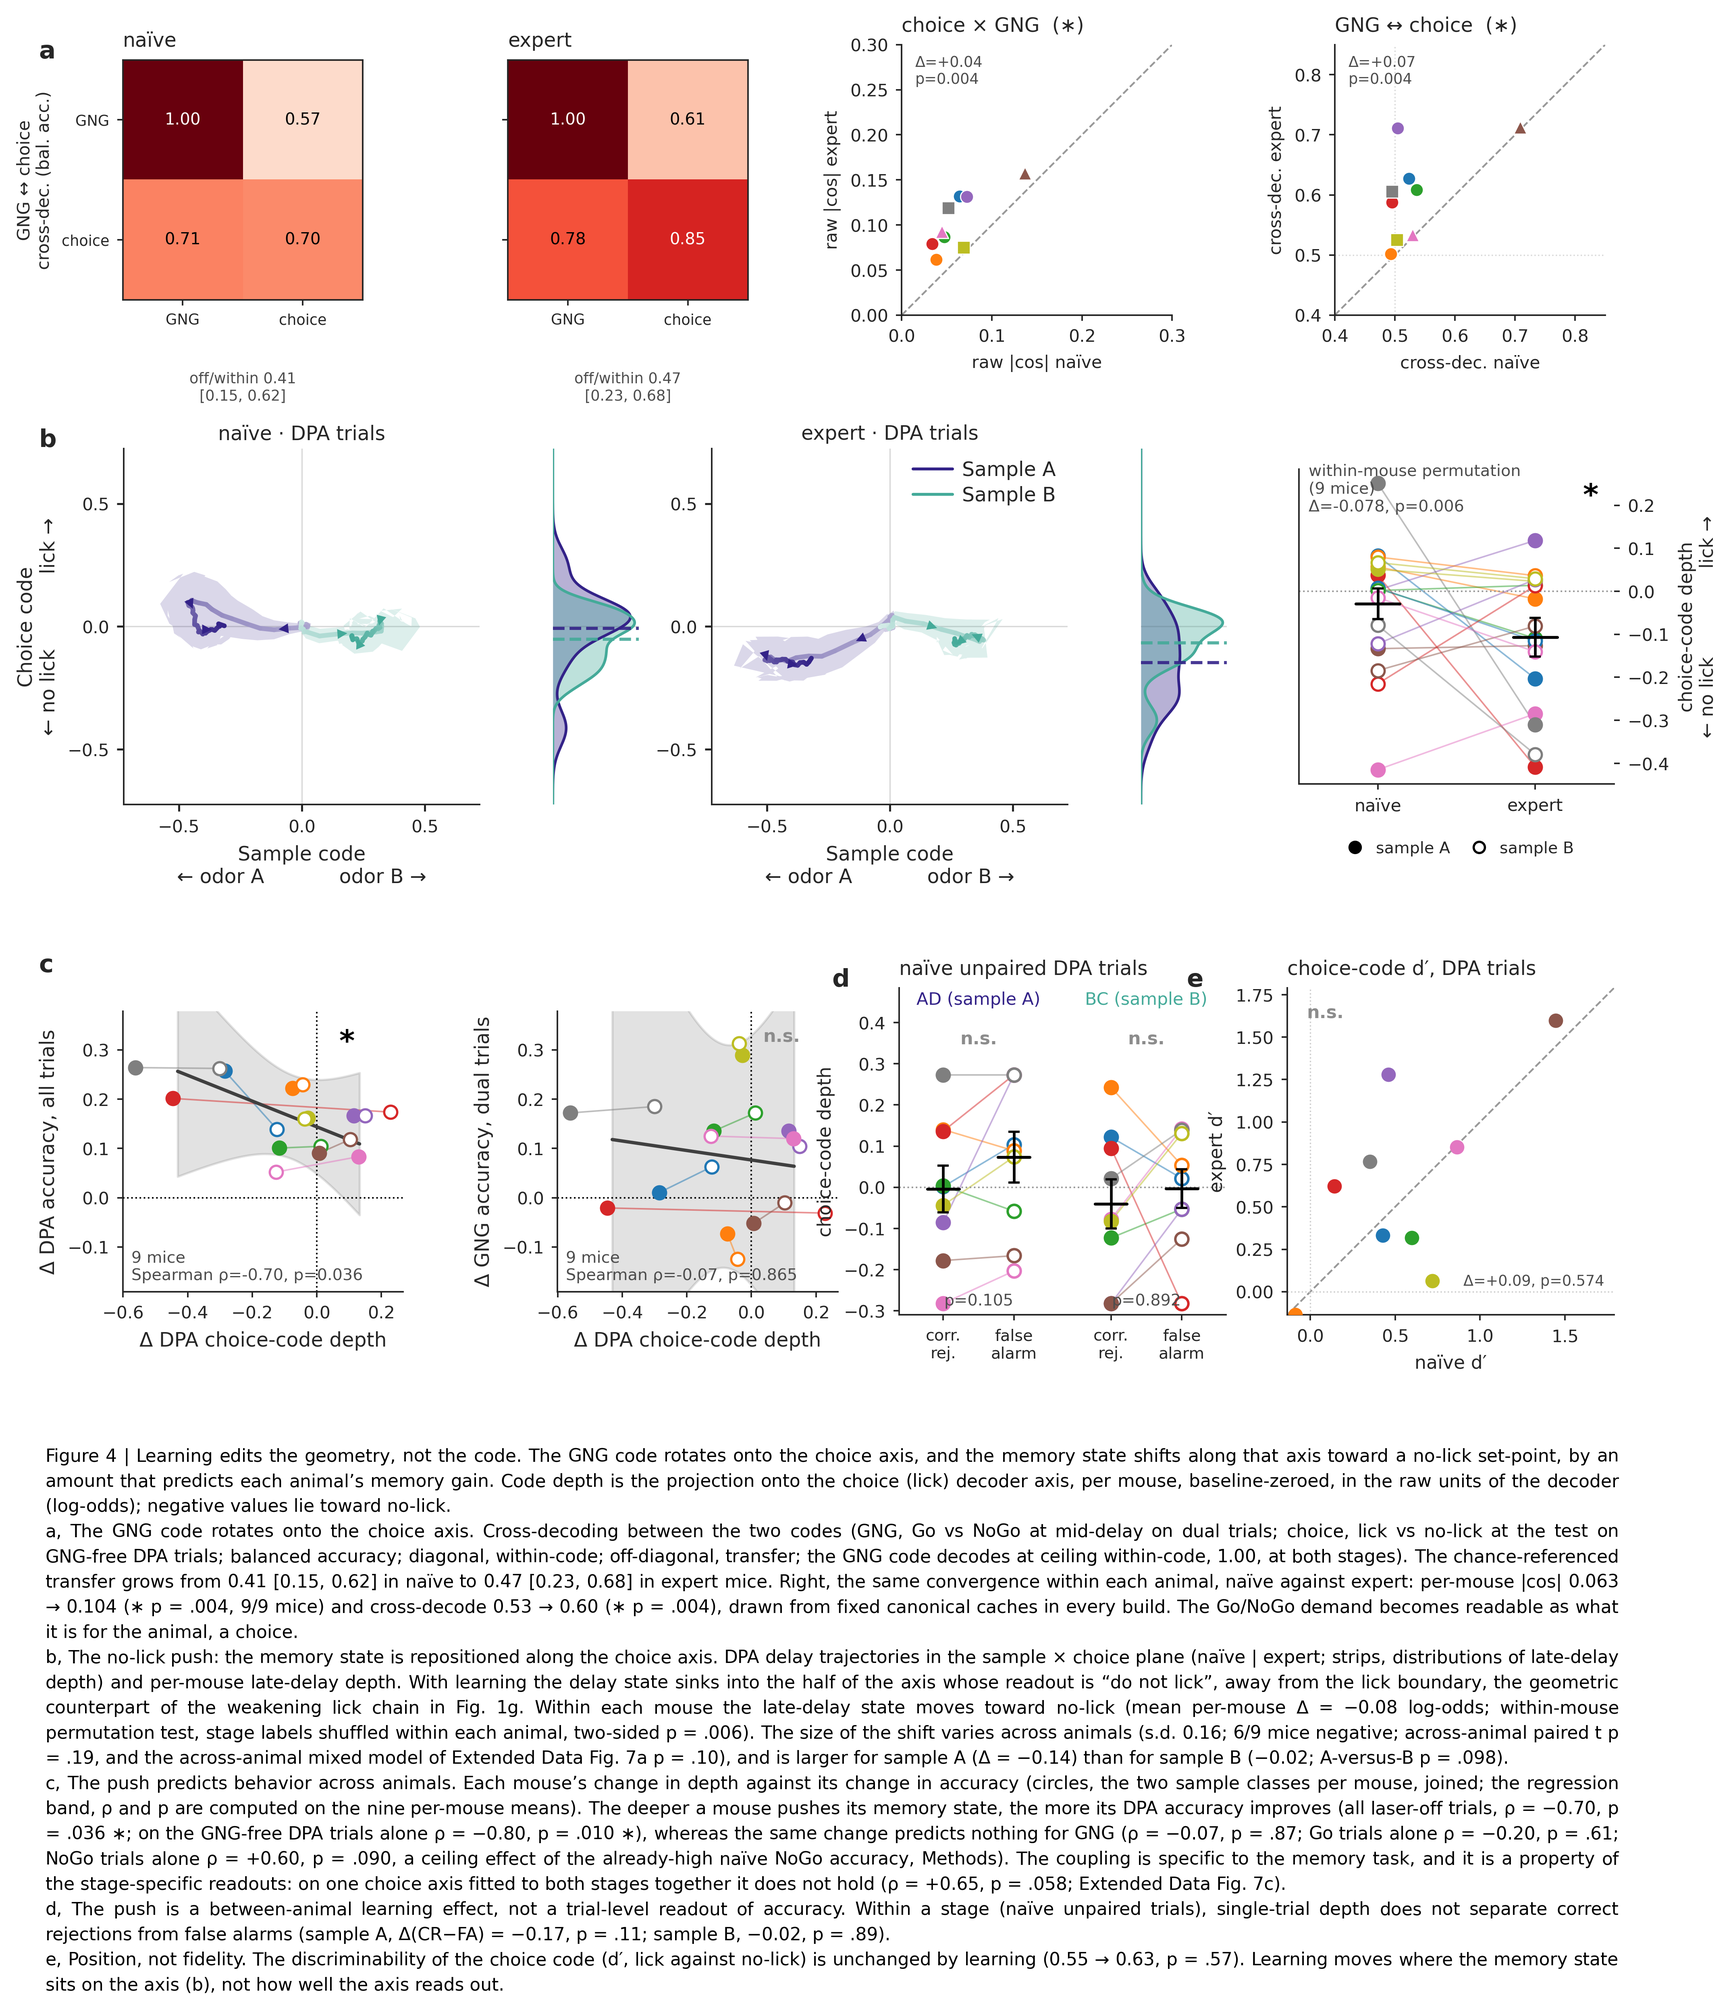
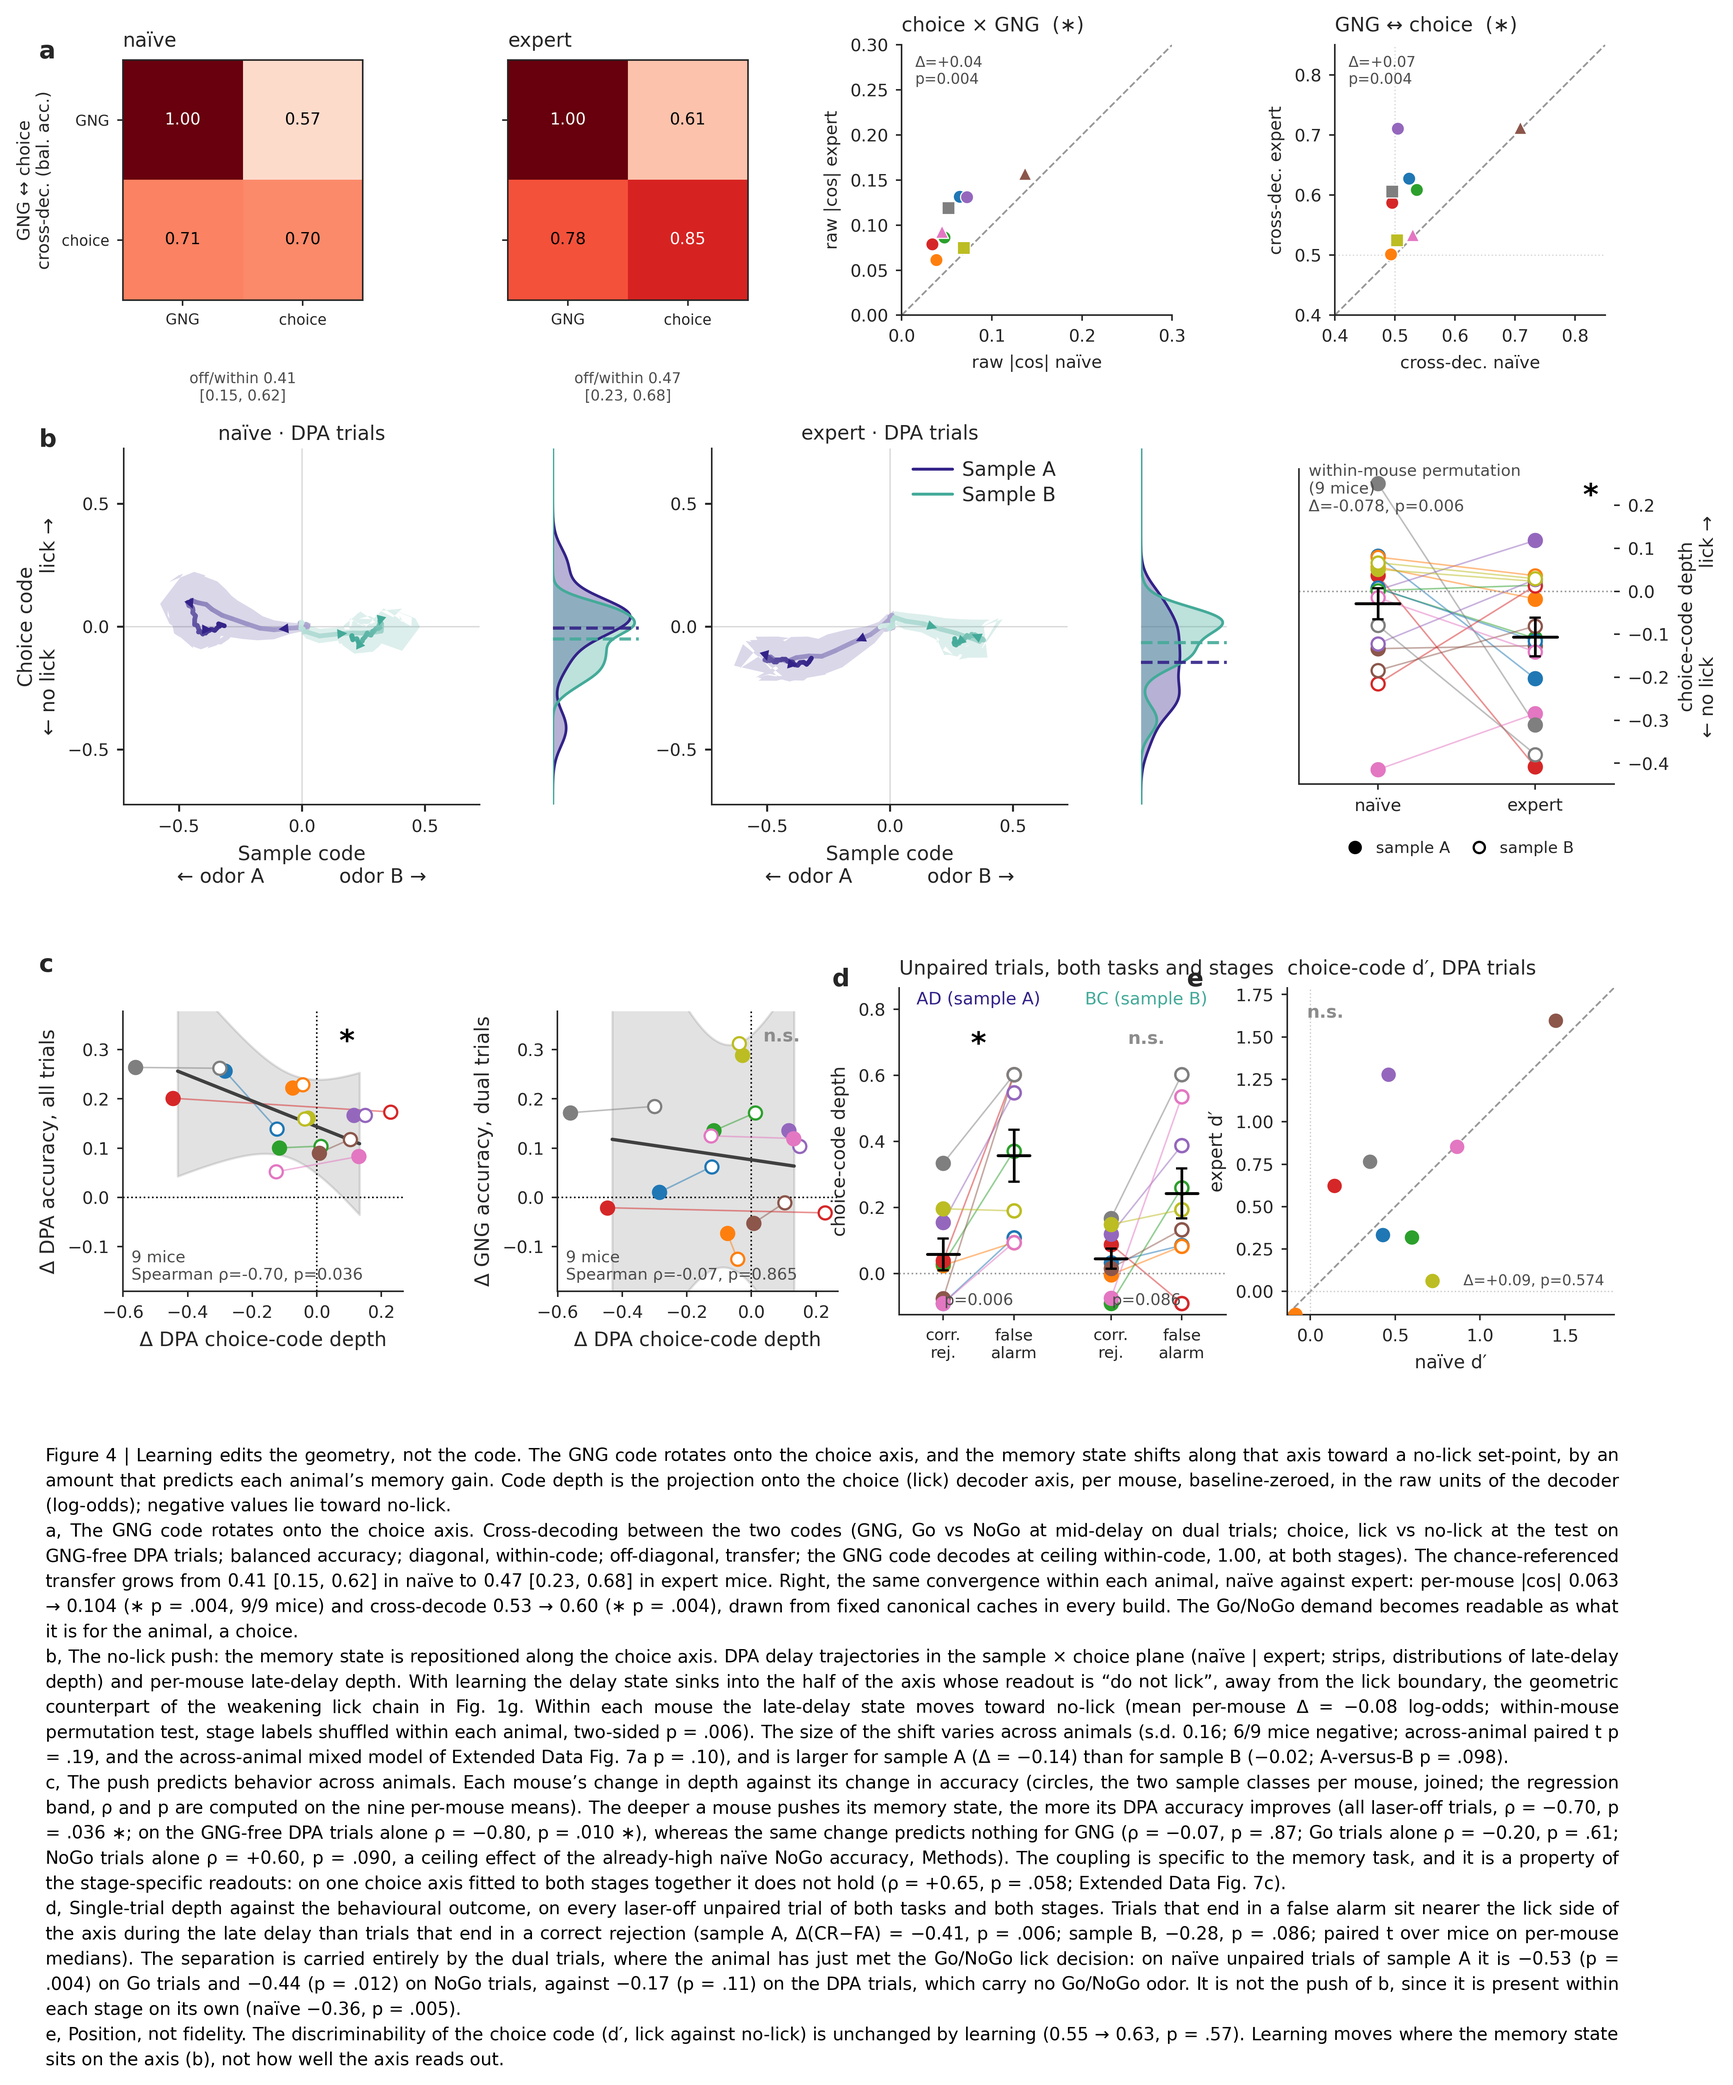
Fig 4d: widen the correct-rejection pool to all unpaired trials (NOT published yet)
Leon: panel d should use all trials for the outcome split. Implemented, with
--naivefacr restoring the build published through 2026-09-18.

The panel reverses. On naive unpaired DPA trials it was null (sample A -0.17,
p .105). On every unpaired trial of both tasks and stages it is significant
(sample A -0.41, p .006; sample B -0.28, p .086): trials ending in a false alarm
sit nearer the lick side during the late delay.

Diagnosed before writing anything. It is NOT the stage pooling Leon accepted as a
risk: the effect holds within the naive stage alone (-0.36, p .005). It is the
dual trials. Naive unpaired, sample A: DPA -0.17 p .105, DualGo -0.53 p .004,
DualNoGo -0.44 p .012. Present on both Go and NoGo trials, so it is not the
Go-lick motor history but general lick propensity on trials where the animal has
just met the Go/NoGo lick decision mid-delay.

This contradicts two statements in the draft: section 2's "the delay carries no
trial-by-trial choice information at either stage" and panel d's own role as
evidence that the push is not a trial-level readout of accuracy. The draft text
is therefore UNTOUCHED and the artifacts are NOT republished pending Leon's call
on which claim the panel should carry.

Claude-Session: https://claude.ai/code/session_01PzGzWMKHPqqyp4poHedntF

diff --git a/overlaps/fig_overlaps_main_native.py b/overlaps/fig_overlaps_main_native.py
@@ -329,7 +329,7 @@ if __name__ == '__main__':
     axD.set_xticklabels(['corr.\nrej.', 'false\nalarm', 'corr.\nrej.', 'false\nalarm'], fontsize=PS*6.5)
     axD.set_xlim(-0.5, 3.2)
     axD.set_ylabel('choice-code depth', fontsize=PS*7.5)
-    axD.set_title('Naive unpaired DPA trials', loc='left', fontsize=TITLE_FS)
+    axD.set_title(_MP.FACR_LABEL, loc='left', fontsize=TITLE_FS)
     axD.set_box_aspect(1)
 
     # ── E: within-task choice-code d′ (Naive vs Expert) — decodability UNCHANGED ⇒ the push (B) is a
@@ -390,10 +390,14 @@ if __name__ == '__main__':
         'state, the more its DPA accuracy improves (all laser-off trials, ρ = −0.70, p = .036 ∗; on the '
         'GNG-free DPA trials alone ρ = −0.80, p = .010 ∗), whereas the same change '
         'predicts nothing for GNG (ρ = −0.07, p = .87; Go trials alone ρ = −0.20, p = .61; NoGo trials alone ρ = +0.60, p = .090, a ceiling effect of the already-high naïve NoGo accuracy, Methods). The coupling is specific to the memory task, and it is a property of the stage-specific readouts: on one choice axis fitted to both stages together it does not hold (ρ = +0.65, p = .058; Extended Data Fig. 7c).',
-        'd, The push is a between-animal learning effect, not a trial-level readout of accuracy. '
-        'Within a stage (naïve unpaired trials), single-trial depth does not separate correct '
-        'rejections from false alarms (sample A, Δ(CR−FA) = −0.17, p = .11; sample B, −0.02, p = '
-        '.89).',
+        'd, Single-trial depth against the behavioural outcome, on every laser-off unpaired trial of both '
+        'tasks and both stages. Trials that end in a false alarm sit nearer the lick side of the axis during '
+        'the late delay than trials that end in a correct rejection (sample A, Δ(CR−FA) = −0.41, p = .006; '
+        'sample B, −0.28, p = .086; paired t over mice on per-mouse medians). The separation is carried '
+        'entirely by the dual trials, where the animal has just met the Go/NoGo lick decision: on naïve '
+        'unpaired trials of sample A it is −0.53 (p = .004) on Go trials and −0.44 (p = .012) on NoGo trials, '
+        'against −0.17 (p = .11) on the DPA trials, which carry no Go/NoGo odor. It is not the push of b, '
+        'since it is present within each stage on its own (naïve −0.36, p = .005).',
         'e, Position, not fidelity. The discriminability of the choice code (d′, lick against no-'
         'lick) is unchanged by learning (0.55 → 0.63, p = .57). Learning moves where the memory state '
         'sits on the axis (b), not how well the axis reads out.',

diff --git a/overlaps/main_panels.py b/overlaps/main_panels.py
@@ -441,9 +441,22 @@ resp_arr    = Lm.response.values
 FA_CR_SPEC  = [('AD', 'A', 1, '#332288'), ('BC', 'B', 3, '#44AA99')]  # (pair, sample, odor_pair, colour)
 
 
+# 2026-09-21 (Leon): panel d's correct-rejection / false-alarm pool is now EVERY laser-off unpaired trial —
+# both stages and both tasks — instead of the naive DPA ones only. The depth is unchanged: each trial's
+# projection on that mouse's choice axis, which the CCGD pipeline fits on DPA trials across both stages.
+# --naivefacr restores the build published through 2026-09-18.
+# CAVEAT carried in the legend: pooling stages lets the naive->expert push of panel b enter this comparison,
+# because expert trials sit deeper AND are more often correct rejections. Leon chose the pooled version with
+# that stated (2026-09-21); the within-stage build is the flag.
+FACR_NAIVE = '--naivefacr' in sys.argv[1:]
+if FACR_NAIVE:
+    FILE_SUF += '_naivefacr'
+_facr_base = (base_dpa_ch & (Lm.stage == 'Naive').values) if FACR_NAIVE else ((Lm.laser == 0) & L_tgt).values
+FACR_LABEL = 'Naive unpaired DPA trials' if FACR_NAIVE else 'Unpaired trials, both tasks and stages'
+
+
 def _facr_cell(mouse, odor_pair, r):
-    m = (base_dpa_ch & (Lm.mouse == mouse).values & (Lm.stage == 'Naive').values &
-         (op_arr == odor_pair) & (resp_arr == r))
+    m = (_facr_base & (Lm.mouse == mouse).values & (op_arr == odor_pair) & (resp_arr == r))
     return depth_trial[m]
 
 
